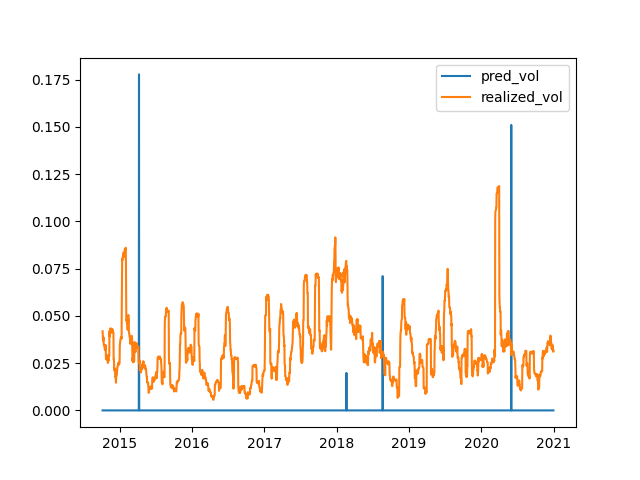
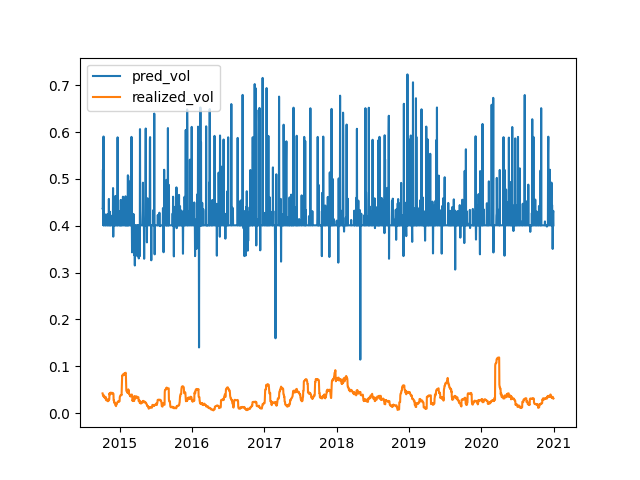
rnn and lstm volatility predictor updated, plus some training results

diff --git a/train.py b/train.py
@@ -93,12 +93,15 @@ realized_vol = logr_df.BTC.rolling(window=21).std(ddof=0)
 
 # ============================== Define model, optimizer, train-test ds =====================================#
 if __name__ == '__main__':
-    Hin, Hout, rnn_type, device, epochs, lr, batch_size, bws = (logr_df.shape[-1]+4, 2, "lstm", "mps", 10, 1e-3, 128, 21)
-    logs_PATH = "/Users/maxchen/Documents/Study/STA/STAT974_Econometrics/Project/project/logs20221212/"
+    tc.random.manual_seed(21020403)
+    Hin, Hout, rnn_type, device, epochs, lr, batch_size, bws = (logr_df.shape[-1]+4, 2, "lstm", "mps", 10, 1e-4, 128, 21)
+    # logs_PATH = "/Users/maxchen/Documents/Study/STA/STAT974_Econometrics/Project/project/logs20221212/"
+    # logs_PATH = "/Users/maxchen/Documents/Study/STA/STAT974_Econometrics/Project/project/logs20221213_ld/"
+    logs_PATH = "/Users/maxchen/Documents/Study/STA/STAT974_Econometrics/Project/project/logs20221213/" # update at each batch
 
     volpredictor = VolPredictor(input_size=Hin, hidden_size=Hout, num_layers=3, rnn_type=rnn_type, device=device)
-
-    # volpredictor = tc.load(logs_PATH+"trained_volpredictor_at_epoch={}.pth".format(10))
+    volpredictor.load_state_dict(tc.load(logs_PATH+"trained_volpredictor_at_epoch={}.pth".format(19)).state_dict())
+    # volpredictor = tc.load(logs_PATH+"trained_volpredictor_at_epoch={}.pth".format(9))
 
     opt = Adam(volpredictor.parameters(), lr=lr)
     ds = tc.tensor(logr_df.values, dtype=tc.float32, device=device)
@@ -127,12 +130,12 @@ if __name__ == '__main__':
 
     ds_in = get_ds_in()
 
-
     volpredictor.train()
     loss = MSELoss()
     loss_L1 = L1Loss()
     logs = tc.empty(0)
-    for epoch in tqdm(range(epochs)):
+
+    for epoch in tqdm(range(20, 20+epochs)):
         l = 0
         opt.zero_grad()
         h_init = volpredictor.init_hidden(batch_size=batch_size)
@@ -146,13 +149,19 @@ if __name__ == '__main__':
             # vols.shape
             # rvs.shape
             # vol.shape
-            # l = loss(vol.flatten(), RV[idx+bws-1].repeat(vol.shape).flatten())
-        ones = tc.ones(size=vols.shape, dtype=tc.float32, device=volpredictor.device)
-        l = loss(ones, vols/rvs) + loss(vols, rvs) + loss_L1(ones, vols/rvs) + loss_L1(vols, rvs)
-        # l = loss(vols, rvs)
-        l.backward()
-        opt.step()
-        logs = tc.concat((logs, l.detach().unsqueeze(-1).cpu()))
+            # RV[idx + bws - 1].repeat(vol.shape).shape
+            ones = tc.ones(size=vol.shape, dtype=tc.float32, device=volpredictor.device)
+            l = loss(ones, vol/RV[idx+bws-1].repeat(vol.shape))
+            l.backward()
+            opt.step()
+            logs = tc.concat((logs, l.detach().unsqueeze(-1).cpu()))
+
+        # ones = tc.ones(size=vols.shape, dtype=tc.float32, device=volpredictor.device)
+        # l = loss(ones, vols/rvs) # + loss(vols, rvs) + loss_L1(ones, vols/rvs) + loss_L1(vols, rvs)
+        # # l = loss(vols, rvs)
+        # l.backward()
+        # opt.step()
+        # logs = tc.concat((logs, l.detach().unsqueeze(-1).cpu()))
 
         if (epoch+1)%1 == 0:
             # hidden = volpredictor.init_hidden(batch_size=ds_train.shape[0])
@@ -169,9 +178,7 @@ if __name__ == '__main__':
             #                  volpredictor.flatten)(a.view([ds_in.shape[0], -1, volpredictor.Hout]))
             # vol_pred.shape
             vol_pred = volpredictor.forward(ds_in, hidden_init)
-            vol_pred.shape
-            # volpredictor.Hin
-            # ds_train.shape
+            # vol_pred.shape
             plt.figure()
             plt.plot(logr_df.index[bws-1:ds_in.shape[0]+bws-1], vol_pred.detach().cpu().numpy(), label= "pred_vol")
             plt.plot(realized_vol[bws-1:ds_in.shape[0]+bws-1], label="realized_vol")

diff --git a/vol_predictor.py b/vol_predictor.py
@@ -28,8 +28,7 @@ class VolPredictor(tc.nn.Module):
             self.lstm = LSTM(input_size=self.Hin, hidden_size=self.Hout, num_layers=self.nl, batch_first=True, device=self.device)
 
         elif self.rnn_type == "rnn":
-            # self.rnn = RNN(input_size=self.Hin, hidden_size=self.Hout, num_layers=self.nl, batch_first=True).to(self.device)
-            pass
+            self.rnn = RNN(input_size=self.Hin, hidden_size=self.Hout, num_layers=self.nl, batch_first=True).to(self.device)
         else:
             ValueError("Wrong rnn_type!")
         # Input: [bs, L, Hin]
@@ -63,7 +62,8 @@ class VolPredictor(tc.nn.Module):
                 h3 = self.drop2(h3)
                 # o[:,i,:] = h3
             out = Sequential(self.fc1, self.sigmoid,
-                             self.fc2, self.relu)(h3)
+                             self.fc2  # , self.relu
+                             )(h3)
 
         elif self.rnn_type == "lstm_whole":
             print("x shape={}, h shape={}, c_shape={}".format(x.shape, hidden[0].shape, hidden[0].shape))
@@ -94,6 +94,7 @@ class VolPredictor(tc.nn.Module):
             h = tc.ones(size=[self.nl, batch_size, self.Hout], device=self.device) * 1e-4
             c = tc.ones(size=[self.nl, batch_size, self.Hout], device=self.device) * 1e-4
             return (h,c)
+
         elif self.rnn_type == "rnn":
             h = tc.ones(size=[self.nl, batch_size, self.Hout], device=self.device) * 1e-4
             return h
